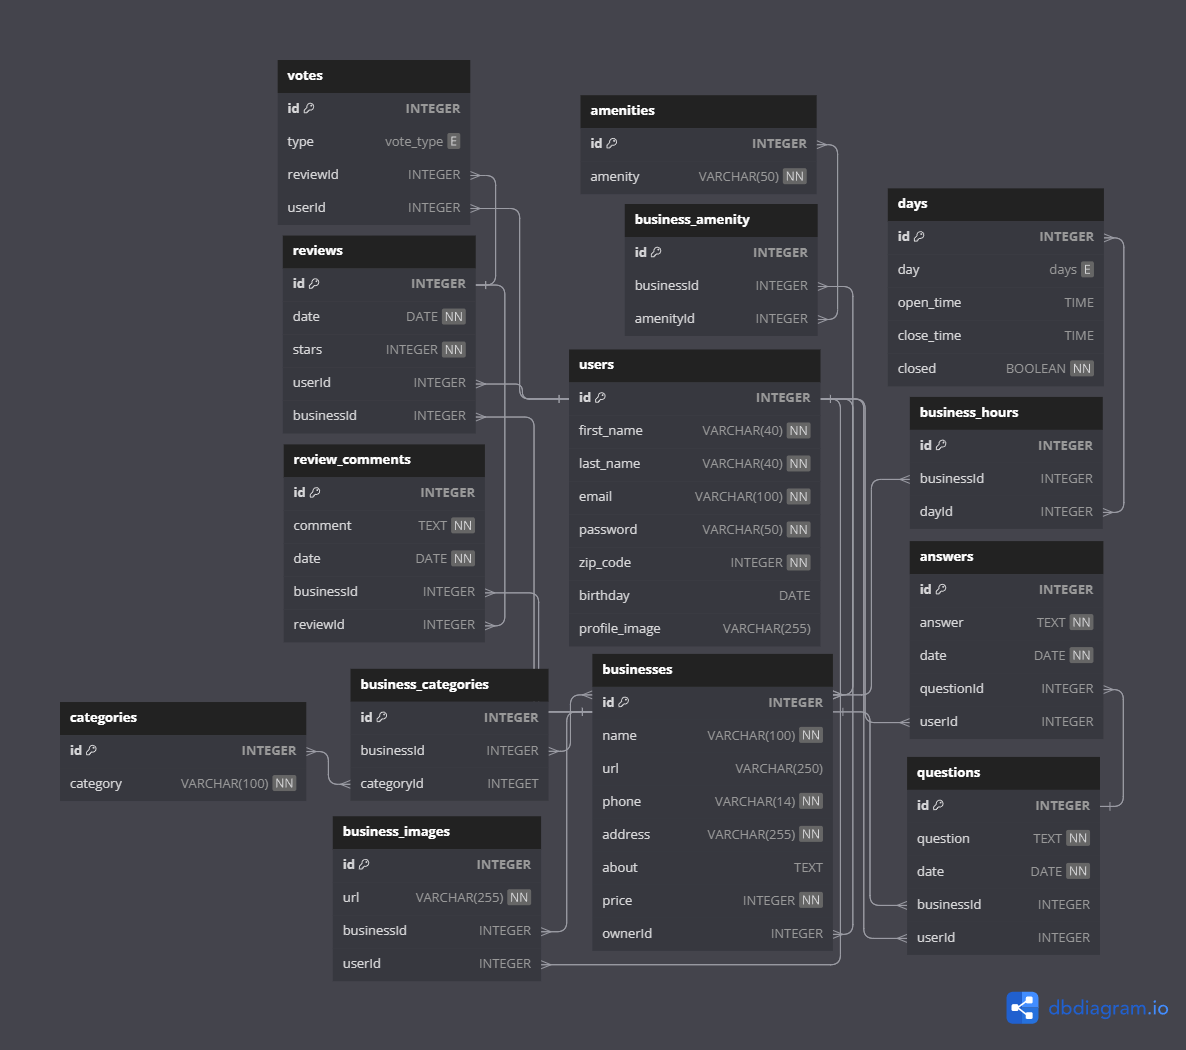
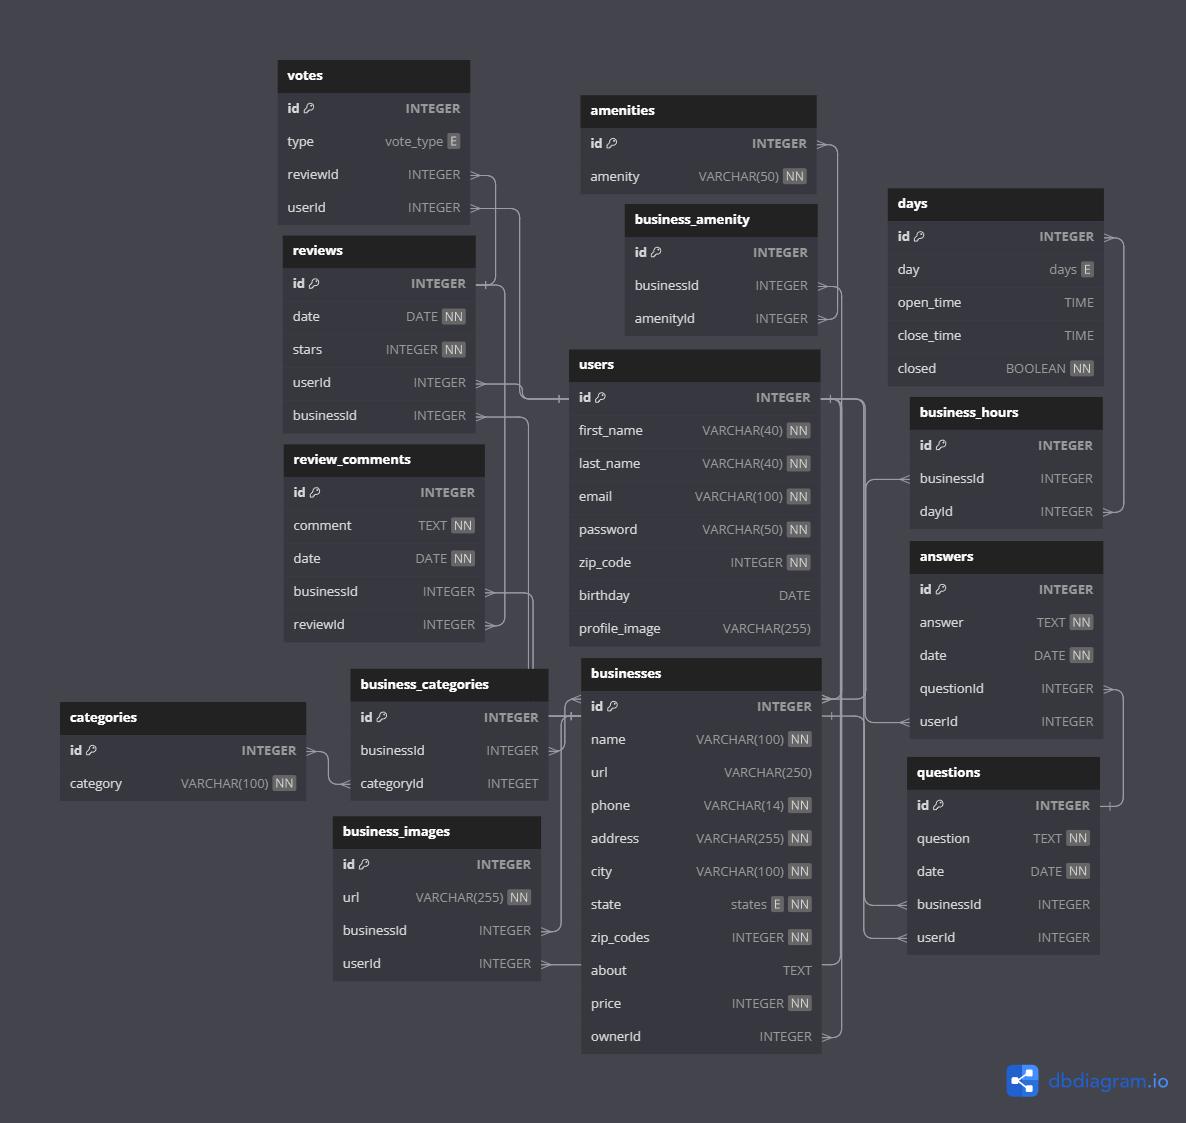
updated database schema

Changed region(s): [[0.0312, 0.0305, 0.9359, 0.9448], [0.8423, 0.9448, 0.9983, 0.9752]]

diff --git a/documentation/database_schema.md b/documentation/database_schema.md
@@ -17,16 +17,19 @@
 
 ## `businesses`
 
-| column name | data type    | details                               |
-|-------------|--------------|---------------------------------------|
-| id          | integer      | not null, primary key, auto increment |
-| name        | varchar(100) | not null                              |
-| url         | varchar(250) |                                       |
-| phone       | varchar(14)  | not null                              |
-| address     | varchar(255) | not null, unique                      |
-| about       | text         |                                       |
-| price       | integer      | not null, default = 1                 |
-| ownerId     | integer      | references: users.id                  |
+| column name | data type    | details                                  |
+|-------------|--------------|------------------------------------------|
+| id          | integer      | not null, primary key, auto increment    |
+| name        | varchar(100) | not null                                 |
+| url         | varchar(250) |                                          |
+| phone       | varchar(14)  | not null                                 |
+| address     | varchar(255) | not null, unique                         |
+| city        | varchar(100) | not null                                 |
+| state       | enum         | [AL, AK, AZ, AR, CA, CO, CT, DE, FL, GA, HI, ID, IL, IN, IA, KS, KY, LA, ME, MD, MA, MI, MN, MS, MO, MT, NE, NV, NH, NJ, NM, NY, NC, ND, OH, OK, OR, PA, RI, SC, SD, TN, TX, UT, VT, VA, WA, WV, WI, WY], not null |
+| zip_code    | integer      | not null                                 |
+| about       | text         |                                          |
+| price       | integer      | not null, default = 1                    |
+| ownerId     | integer      | references: users.id                     |
 
 ## `business_images`
 
@@ -60,7 +63,7 @@
 | date        | date      | not null, default: "CURRENT_DATE"     |
 | stars       | integer   | not null                              |
 | userId      | integer   | references: users.id                  |
-| businessId | integer   | references: businesses.id             |
+| businessId  | integer   | references: businesses.id             |
 
 Indexes: (userId, businessId), unique
 
